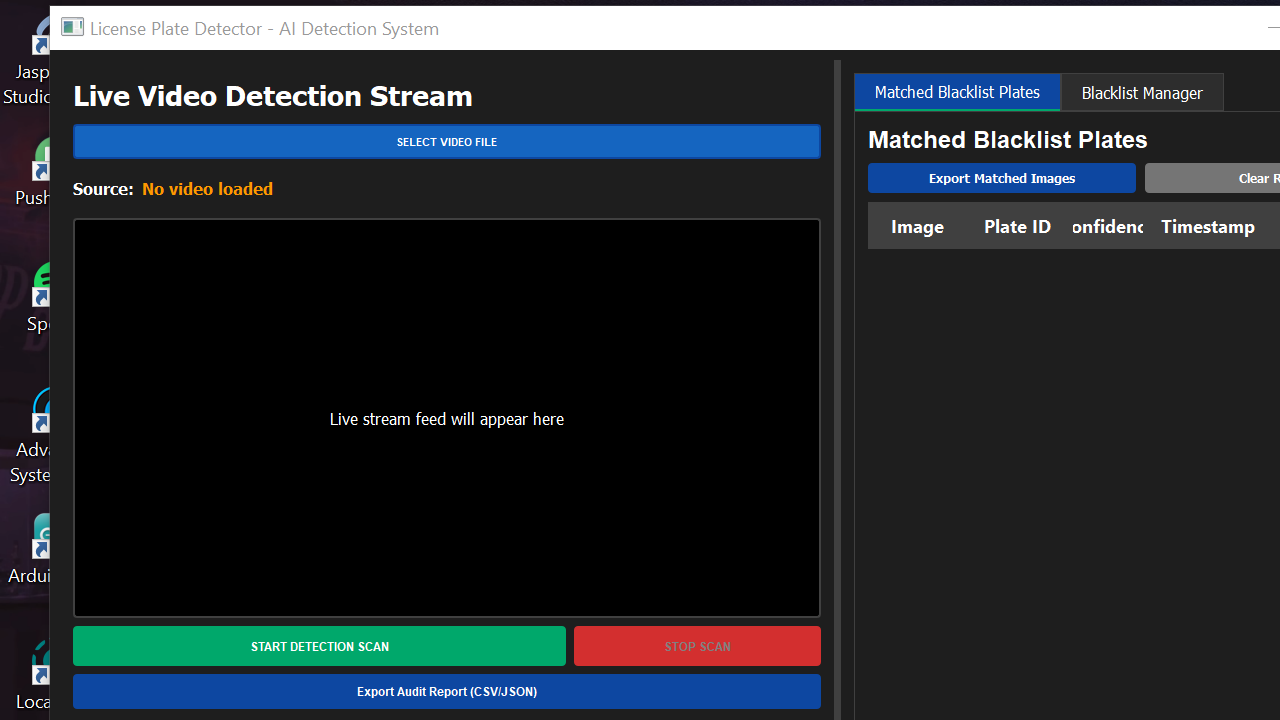
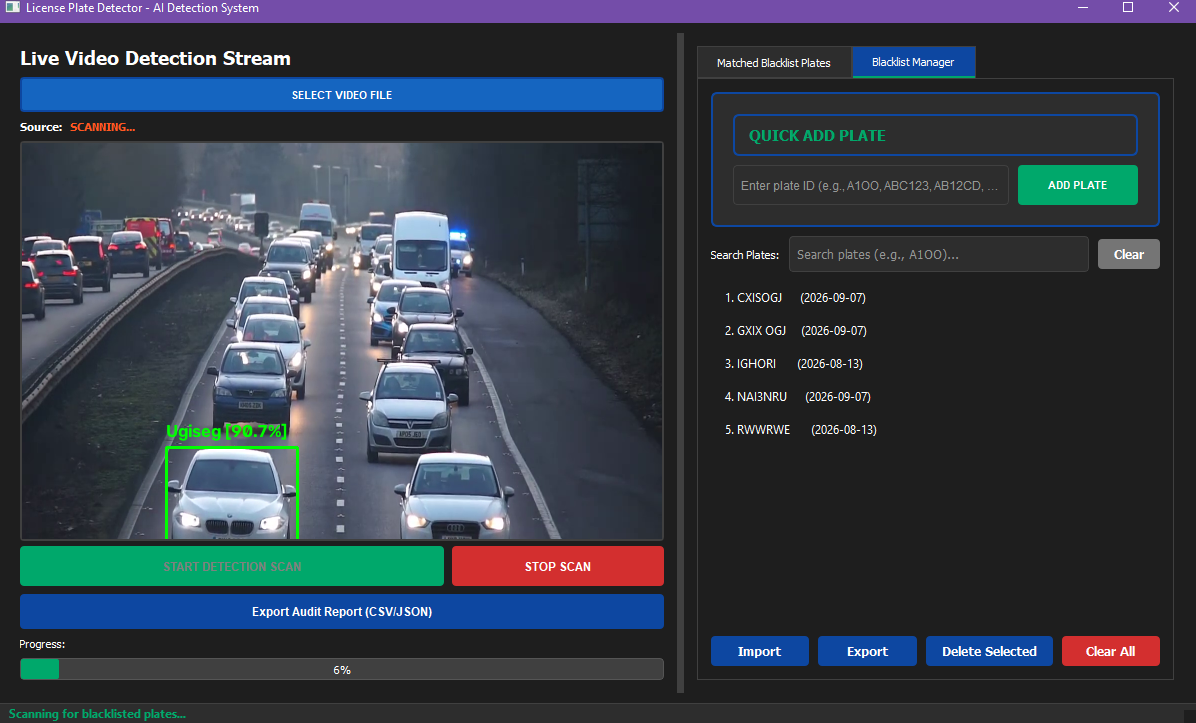
Use provided application screenshot

diff --git a/README.md b/README.md
@@ -35,7 +35,7 @@ pip install -r requirements.txt
 
 ## Screenshot
 
-![License Plate Detector application](screenshots/ipd.png)
+![License Plate Detector application](screenshots/ipd.PNG)
 
 ## Usage
 
